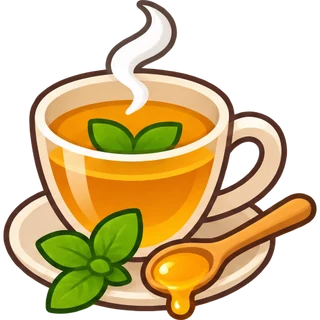
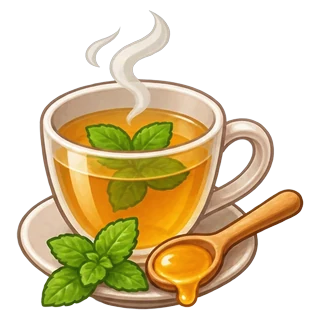
Nouvelles images des 9 recettes de balade
Claude-Session: https://claude.ai/code/session_018D5HKJWKwN88xpAGuhHMQJ

diff --git a/index.html b/index.html
@@ -6,13 +6,13 @@
   <title>Potager idle</title>
   <meta name="description" content="Un petit jeu idle de potager : plante, arrose, récolte, cuisine et découvre des variétés hybrides.">
   <meta name="theme-color" content="#fdf3e7" id="theme-color">
-  <link rel="manifest" href="manifest.webmanifest?v=498">
+  <link rel="manifest" href="manifest.webmanifest?v=499">
   <link rel="icon" href="icons/favicon-32.png" sizes="32x32" type="image/png">
   <link rel="icon" href="icons/favicon-64.png" sizes="64x64" type="image/png">
   <link rel="icon" href="icons/icon-192.png" sizes="192x192" type="image/png">
   <link rel="preload" href="fonts/nunito-latin.woff2" as="font" type="font/woff2" crossorigin>
   <link rel="preload" href="fonts/fredoka-latin.woff2" as="font" type="font/woff2" crossorigin>
-  <link rel="stylesheet" href="css/style.css?v=498">
+  <link rel="stylesheet" href="css/style.css?v=499">
 </head>
 <body>
 <div id="app">
@@ -45,27 +45,27 @@
 <div id="fx"></div>
 <div id="toasts" aria-live="polite"></div>
 
-<script src="js/env.js?v=498"></script>
-<script src="js/typo.js?v=498"></script>
-<script src="js/data.js?v=498"></script>
-<script src="assets/img/manifest.js?v=498"></script>
-<script src="js/art.js?v=498"></script>
-<script src="js/seasons.js?v=498"></script>
-<script src="js/sound.js?v=498"></script>
-<script src="js/achievements.js?v=498"></script>
-<script src="js/cloud-config.js?v=498"></script>
-<script src="js/cloud.js?v=498"></script>
-<script src="js/profile.js?v=498"></script>
-<script src="js/friends.js?v=498"></script>
-<script src="js/visit.js?v=498"></script>
-<script src="js/water.js?v=498"></script>
-<script src="js/trade.js?v=498"></script>
-<script src="js/like.js?v=498"></script>
-<script src="js/goals.js?v=498"></script>
-<script src="js/news.js?v=498"></script>
-<script src="js/balades.js?v=498"></script>
-<script src="js/jardin.js?v=498"></script>
-<script src="js/tuto.js?v=498"></script>
-<script src="js/game.js?v=498"></script>
+<script src="js/env.js?v=499"></script>
+<script src="js/typo.js?v=499"></script>
+<script src="js/data.js?v=499"></script>
+<script src="assets/img/manifest.js?v=499"></script>
+<script src="js/art.js?v=499"></script>
+<script src="js/seasons.js?v=499"></script>
+<script src="js/sound.js?v=499"></script>
+<script src="js/achievements.js?v=499"></script>
+<script src="js/cloud-config.js?v=499"></script>
+<script src="js/cloud.js?v=499"></script>
+<script src="js/profile.js?v=499"></script>
+<script src="js/friends.js?v=499"></script>
+<script src="js/visit.js?v=499"></script>
+<script src="js/water.js?v=499"></script>
+<script src="js/trade.js?v=499"></script>
+<script src="js/like.js?v=499"></script>
+<script src="js/goals.js?v=499"></script>
+<script src="js/news.js?v=499"></script>
+<script src="js/balades.js?v=499"></script>
+<script src="js/jardin.js?v=499"></script>
+<script src="js/tuto.js?v=499"></script>
+<script src="js/game.js?v=499"></script>
 </body>
 </html>

diff --git a/js/game.js b/js/game.js
@@ -1,7 +1,7 @@
 "use strict";
 /* Numéro de version affiché dans les Paramètres.
    À chaque mise à jour : changer APP_VERSION, le ?v= dans index.html et VERSION dans sw.js. */
-const APP_VERSION = "4.0.13" + (IS_TEST ? "-test" : "");
+const APP_VERSION = "4.0.14" + (IS_TEST ? "-test" : "");
 /* ---------------- Helpers ---------------- */
 const $ = s => document.querySelector(s);
 const now = () => Date.now();

diff --git a/sw.js b/sw.js
@@ -1,6 +1,6 @@
 /* Service worker de Potager idle : rend le jeu jouable hors-ligne.
    À chaque mise à jour du jeu, augmente VERSION pour que les téléphones téléchargent la nouvelle version. */
-const VERSION = "potager-v498";
+const VERSION = "potager-v499";
 const FILES = [
   "./",
   "index.html",

diff --git a/CHANGELOG.md b/CHANGELOG.md
@@ -195,6 +195,10 @@ Bonne saison au potager ! 🌸☀🍂❄
 
 ## Détail des mises à jour
 
+### 4.0.14
+
+- Nouvelles images des recettes de balade : tartine au miel, soupe de cresson, thé à la menthe, salade de la mer, pesto d’ail des ours, confiture de mûres, velouté de châtaignes, gâteau aux noisettes et grand pique-nique.
+
 ### 4.0.13
 
 - Ordinateur, **Marché** : la fiche de l’objet choisi en haut, sur toute la largeur ; en dessous, les plantes à gauche et les hybrides à droite.
